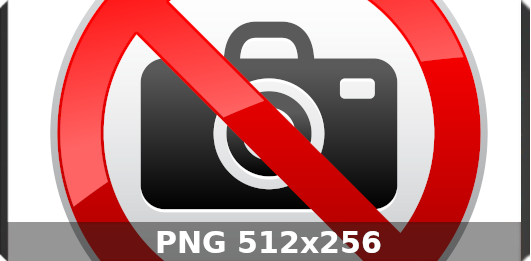
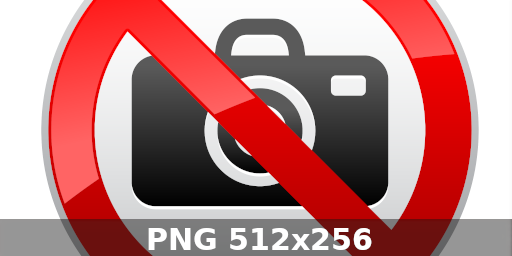
Developing map edition

diff --git a/src/main/java/stories/mapedition/MapEditionController.java b/src/main/java/stories/mapedition/MapEditionController.java
@@ -1,12 +1,22 @@
 package stories.mapedition;
 
+import dtos.AbstractMapDto;
+import dtos.CustomMapModDto;
+import dtos.ProfileDto;
 import javafx.beans.value.ChangeListener;
 import javafx.beans.value.ObservableValue;
 import javafx.fxml.FXML;
 import javafx.fxml.Initializable;
+import javafx.scene.control.TextField;
+import javafx.scene.text.Text;
 import javafx.scene.web.WebEngine;
 import javafx.scene.web.WebView;
+import org.apache.commons.lang3.StringUtils;
 import org.w3c.dom.Document;
+import org.w3c.dom.Element;
+import org.w3c.dom.Node;
+import org.w3c.dom.NodeList;
+import pojos.session.Session;
 
 import java.lang.reflect.Field;
 import java.net.URL;
@@ -15,8 +25,17 @@ import java.util.ResourceBundle;
 public class MapEditionController implements Initializable {
 
     private final MapEditionFacade facade;
+    private String installationFolder;
 
     @FXML private WebView mapPreviewWebView;
+    @FXML private Text mapNameValue;
+    @FXML private TextField mapPreviewUrlTextField;
+    @FXML private Text officialValue;
+    @FXML private Text downloadedValue;
+    @FXML private Text idWorkShopValue;
+    @FXML private Text importationDateValue;
+    @FXML private TextField releaseDateTextField;
+    @FXML private TextField infoUrlTextField;
 
     public MapEditionController() {
         super();
@@ -28,16 +47,59 @@ public class MapEditionController implements Initializable {
     public void initialize(URL location, ResourceBundle resources) {
 
         try {
+            installationFolder = facade.findConfigPropertyValue("prop.config.installationFolder");
+            ProfileDto actualProfile = Session.getInstance().getActualProfile();
+
             WebEngine webEngine = mapPreviewWebView.getEngine();
-            webEngine.load("file:C:\\kf2server\\KFGame\\Web\\images\\maps\\custom\\KF1 West London.jpeg");
-            //webEngine.load("https://math.hws.edu/graphicsbook/demos/c4/textures/NightEarth-512x256.jpg");
 
-            // Use reflection to retrieve the WebEngine's private 'page' field.
-            Field f = webEngine.getClass().getDeclaredField("page");
-            f.setAccessible(true);
-            com.sun.webkit.WebPage page = (com.sun.webkit.WebPage) f.get(webEngine);
-            page.setBackgroundColor((new java.awt.Color(0.5019608f, 0.5019608f, 0.5019608f, 0.5f)).getRGB());
+            if (!Session.getInstance().getMapList().isEmpty()) {
+                AbstractMapDto mapDto = Session.getInstance().getMapList().get(0);
 
+                webEngine.documentProperty().addListener(new ChangeListener<Document>() {
+                    @Override
+                    public void changed(ObservableValue<? extends Document> observable, Document oldDoc, Document doc) {
+                        if (doc != null) {
+                            NodeList imgList = doc.getElementsByTagName("img");
+                            if (imgList != null && imgList.getLength() > 0) {
+                                Element img = (Element) imgList.item(0);
+                                img.setAttribute("width", "512");
+                                img.setAttribute("height", "256");
+                            }
+
+                        }
+                   }
+                });
+
+                mapNameValue.setText(mapDto.getKey());
+                officialValue.setText(mapDto.isOfficial()? "Yes": "No");
+                downloadedValue.setText(mapDto.isOfficial()? "Yes": ((CustomMapModDto)mapDto).isDownloaded()? "Yes": "No");
+                idWorkShopValue.setText(mapDto.isOfficial()? StringUtils.EMPTY: String.valueOf(((CustomMapModDto)mapDto).getIdWorkShop()));
+                importationDateValue.setText(
+                        StringUtils.isNotBlank(mapDto.getImportedDate(actualProfile.getName())) ? mapDto.getImportedDate(actualProfile.getName()): "Unknown"
+                );
+                releaseDateTextField.setText(
+                        StringUtils.isNotBlank(mapDto.getReleaseDate()) ? mapDto.getReleaseDate(): "Unknown"
+                );
+                infoUrlTextField.setText(
+                        StringUtils.isNotBlank(mapDto.getUrlInfo()) ? mapDto.getUrlInfo(): StringUtils.EMPTY
+                );
+
+                if (StringUtils.isNotBlank(mapDto.getUrlPhoto())) {
+                    webEngine.load("file:" + installationFolder + mapDto.getUrlPhoto());
+                    mapPreviewUrlTextField.setText(mapDto.getUrlPhoto());
+                } else {
+                    webEngine.load("file:" + getClass().getResource("/images/no-photo.png").getPath());
+                    mapPreviewUrlTextField.setText(StringUtils.EMPTY);
+                }
+
+                // Put gray color for background of the browser's page
+                Field f = webEngine.getClass().getDeclaredField("page");
+                f.setAccessible(true);
+                com.sun.webkit.WebPage page = (com.sun.webkit.WebPage) f.get(webEngine);
+                page.setBackgroundColor((new java.awt.Color(0.5019608f, 0.5019608f, 0.5019608f, 0.5f)).getRGB());
+            } else {
+                webEngine.load("file:" + getClass().getResource("/images/no-photo.png").getPath());
+            }
         } catch (Exception e) {
 
         }

diff --git a/src/main/java/stories/mapsedition/MapsEditionController.java b/src/main/java/stories/mapsedition/MapsEditionController.java
@@ -1013,39 +1013,37 @@ public class MapsEditionController implements Initializable {
                 Utils.warningDialog(headerText, contentText);
                 return;
             }
-            List<Node> removeList = new ArrayList<Node>();
-            StringBuffer message = new StringBuffer();
-            ObservableList<Node> officialNodes = officialMapsFlowPane.getChildren();
-            ObservableList<Node> customNodes = customMapsFlowPane.getChildren();
 
-            for (Node node : officialNodes) {
+            ObservableList<Node> nodeList = null;
+            List<AbstractMapDto> editList = new ArrayList<AbstractMapDto>();
+            if (officialMapsTab.isSelected()) {
+                nodeList = officialMapsFlowPane.getChildren();
+            } else {
+                nodeList = customMapsFlowPane.getChildren();
+            }
+
+            for (Node node : nodeList) {
                 GridPane gridpane = (GridPane) node;
                 Label mapNameLabel = (Label) gridpane.getChildren().get(1);
                 CheckBox checkbox = (CheckBox) mapNameLabel.getGraphic();
 
                 if (checkbox.isSelected()) {
-                    removeList.add(gridpane);
-                    message.append(mapNameLabel.getText()).append("\n");
+                    String mapName = mapNameLabel.getText();
+                    Optional<AbstractMapDto> abstractMapDtoOpt = facade.findMapDtoByName(mapName);
+                    if (abstractMapDtoOpt.isPresent()) {
+                        editList.add(abstractMapDtoOpt.get());
+                    }
                 }
             }
 
-            for (Node node : customNodes) {
-                GridPane gridpane = (GridPane) node;
-                Label mapNameLabel = (Label) gridpane.getChildren().get(1);
-                CheckBox checkbox = (CheckBox) mapNameLabel.getGraphic();
-
-                if (checkbox.isSelected()) {
-                    removeList.add(gridpane);
-                    message.append(mapNameLabel.getText()).append("\n");
-                }
-            }
-            if (removeList.isEmpty()) {
+            if (editList.isEmpty()) {
                 logger.warn("No selected maps/mods to edit. You must select at least one item to be editted");
                 String headerText = propertyService.getPropertyValue("properties/languages/" + languageCode + ".properties", "prop.message.mapsNotSelected");
                 String contentText = propertyService.getPropertyValue("properties/languages/" + languageCode + ".properties", "prop.message.selectItems");
                 Utils.warningDialog(headerText, contentText);
 
             } else {
+                Session.getInstance().setMapList(editList);
                 loadNewContent("/views/mapEdition.fxml");
             }
         } catch (Exception e) {

diff --git a/src/main/java/stories/maincontent/MainContentController.java b/src/main/java/stories/maincontent/MainContentController.java
@@ -92,7 +92,6 @@ public class MainContentController implements Initializable {
     @FXML private ImageView clanImg;
     @FXML private ImageView webLinkImg;
     @FXML private ImageView customParametersImg;
-    @FXML private ImageView thumbnailImg;
     @FXML private ImageView urlImageServerImg;
     @FXML private ImageView welcomeImg;
     @FXML private Tab basicParameters;
@@ -557,10 +556,8 @@ public class MainContentController implements Initializable {
                         }
                         if (StringUtils.isNotEmpty(urlImageServer.getText())) {
                             imageWebView.getEngine().load(urlImageServer.getText());
-                            imageWebView.setVisible(true);
                         } else {
-                            imageWebView.setVisible(false);
-                            imageWebView.getEngine().load(null);
+                            imageWebView.getEngine().load("file:" + getClass().getResource("/images/photo-borders.png").getPath());
                         }
                     }
                 } catch (Exception e) {
@@ -966,7 +963,7 @@ public class MainContentController implements Initializable {
         joinServer.setText(joinServerText);
         joinServer.setTooltip(new Tooltip(propertyService.getPropertyValue("properties/languages/" + languageCode + ".properties", "prop.tooltip.joinServer")));
 
-        Tooltip.install(thumbnailImg, new Tooltip(propertyService.getPropertyValue("properties/languages/" + languageCode + ".properties", "prop.tooltip.thumbnail")));
+        Tooltip.install(imageWebView, new Tooltip(propertyService.getPropertyValue("properties/languages/" + languageCode + ".properties", "prop.tooltip.thumbnail")));
 
         // Advanced Parameters
         String portsLabelText = propertyService.getPropertyValue("properties/languages/" + languageCode + ".properties","prop.label.ports");
@@ -1144,10 +1141,8 @@ public class MainContentController implements Initializable {
         try {
             if (StringUtils.isNotEmpty(urlImageServer.getText())) {
                 imageWebView.getEngine().load(urlImageServer.getText());
-                imageWebView.setVisible(true);
             } else {
-                imageWebView.setVisible(false);
-                imageWebView.getEngine().load(null);
+                imageWebView.getEngine().load("file:" + getClass().getResource("/images/photo-borders.png").getPath());
             }
             serverPassword.setText(Utils.decryptAES(profile.getServerPassword()));
             webPassword.setText(Utils.decryptAES(profile.getWebPassword()));

diff --git a/src/main/java/stories/mapsedition/MapsEditionFacadeImpl.java b/src/main/java/stories/mapsedition/MapsEditionFacadeImpl.java
@@ -272,7 +272,6 @@ public class MapsEditionFacadeImpl extends AbstractFacade implements MapsEdition
     }
 
     private Optional<AbstractMap> findMapByName(String mapName) throws SQLException {
-
         Optional<AbstractMap> officialMapOptional = officialMapService.findMapByCode(mapName);
         if (officialMapOptional.isPresent()) {
             return officialMapOptional;
@@ -417,5 +416,14 @@ public class MapsEditionFacadeImpl extends AbstractFacade implements MapsEdition
             logger.error("Error importing the official map with name: " + officialMapName + " from server", e);
         }
         return null;
+    }
+
+    @Override
+    public Optional<AbstractMapDto> findMapDtoByName(String mapName) throws SQLException {
+        Optional<AbstractMap> abstractMapOptional = findMapByName(mapName);
+        if (abstractMapOptional.isPresent()) {
+            return Optional.ofNullable(mapDtoFactory.newDto(abstractMapOptional.get()));
+        }
+        return Optional.empty();
     }
 }

diff --git a/src/main/java/pojos/session/Session.java b/src/main/java/pojos/session/Session.java
@@ -19,6 +19,7 @@ public class Session {
     private ProfileDto mapsProfile;
     private EnumSortedMapsCriteria sortedMapsCriteria;
     private EnumMasTab selectedMapTab;
+    private List<AbstractMapDto> mapList;
 
     /**
      * Singleton constructor
@@ -30,6 +31,7 @@ public class Session {
         processList = new ArrayList<Process>();
         sortedMapsCriteria = EnumSortedMapsCriteria.NAME_DESC;
         selectedMapTab = EnumMasTab.CUSTOM_MAPS_TAB;
+        mapList = new ArrayList<AbstractMapDto>();
     }
 
     public static Session getInstance() {
@@ -105,5 +107,13 @@ public class Session {
 
     public void setSelectedMapTab(EnumMasTab selectedMapTab) {
         this.selectedMapTab = selectedMapTab;
+    }
+
+    public List<AbstractMapDto> getMapList() {
+        return mapList;
+    }
+
+    public void setMapList(List<AbstractMapDto> mapList) {
+        this.mapList = mapList;
     }
 }

diff --git a/src/main/java/stories/mapsedition/MapsEditionFacade.java b/src/main/java/stories/mapsedition/MapsEditionFacade.java
@@ -28,4 +28,5 @@ public interface MapsEditionFacade {
     List<AbstractMapDto> addCustomMapsToProfile(String profileName, String mapNameList, String languageCode, String installationFolder, String actualSelectedProfile, StringBuffer success, StringBuffer errors);
     CustomMapModDto importCustomMapModFromServer(String mapNameLabel, Long idWorkShop, String commentary, String installationFolder, List<String> selectedProfileNameList, String actualSelectedProfile, List<ImportMapResultToDisplay> importMapResultToDisplayList);
     OfficialMapDto importOfficialMapFromServer(String officialMapName, List<String> selectedProfileNameList, String actualSelectedProfile, String mapNameLabel, List<ImportMapResultToDisplay> importMapResultToDisplayList);
+    Optional<AbstractMapDto> findMapDtoByName(String mapName) throws SQLException;
 }

diff --git a/src/main/java/stories/mapedition/MapEditionFacadeImpl.java b/src/main/java/stories/mapedition/MapEditionFacadeImpl.java
@@ -1,5 +1,7 @@
 package stories.mapedition;
 
-public class MapEditionFacadeImpl implements MapEditionFacade {
+import stories.AbstractFacade;
+
+public class MapEditionFacadeImpl extends AbstractFacade implements MapEditionFacade {
 
 }

diff --git a/src/main/java/stories/mapedition/MapEditionFacade.java b/src/main/java/stories/mapedition/MapEditionFacade.java
@@ -1,4 +1,5 @@
 package stories.mapedition;
 
 public interface MapEditionFacade {
+    String findConfigPropertyValue(String key) throws Exception;
 }
